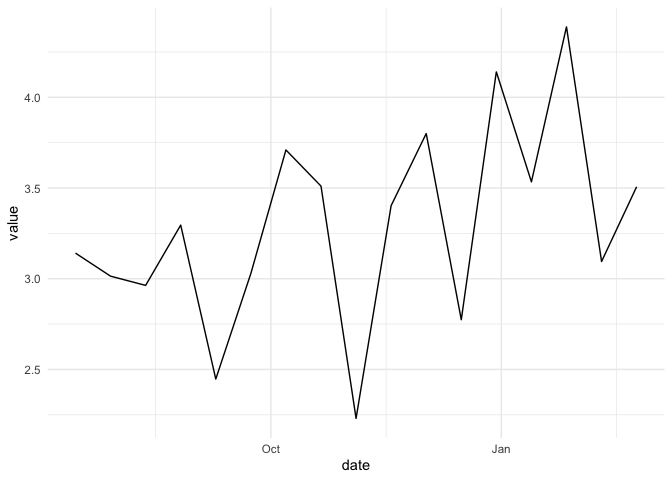
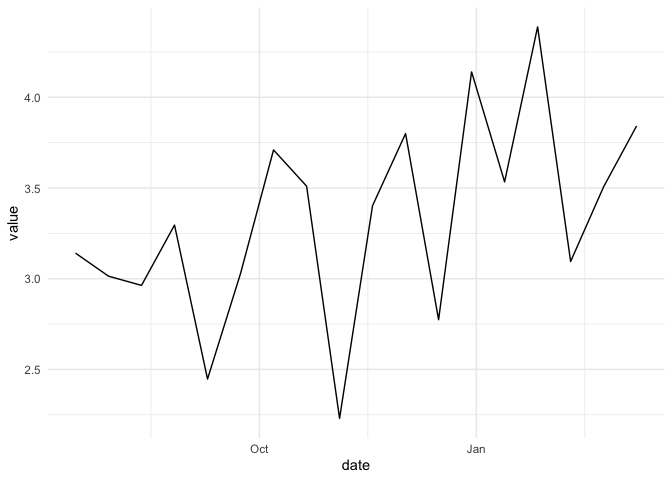
re-knit readme

diff --git a/README.md b/README.md
@@ -44,7 +44,7 @@ library(tidyverse)
 fwc <- read_fwc()
 
 fwc 
-#> # A tibble: 368 × 4
+#> # A tibble: 390 × 4
 #>    date       indicator               union  value
 #>    <date>     <chr>                   <chr>  <dbl>
 #>  1 2022-07-15 Employees covered (No.) Total  19132
@@ -57,7 +57,7 @@ fwc
 #>  8 2022-10-21 Employees covered (No.) Total  16294
 #>  9 2022-11-04 Employees covered (No.) Total 100074
 #> 10 2022-11-18 Employees covered (No.) Total  24113
-#> # … with 358 more rows
+#> # … with 380 more rows
 ```
 
 Visualise it!
@@ -84,7 +84,8 @@ fwc |>
   geom_smooth(method = "loess",
               formula = y ~ x,
               se = FALSE) +
-  scale_y_continuous(limits = \(x) c(0, x[2]))
+  scale_y_continuous(limits = \(x) c(0, x[2])) +
+  scale_x_date(breaks = \(x) seq(x[2], x[1], by = "-6 months"))
 ```
 
 <img src="man/figures/README-unnamed-chunk-3-1.png" width="100%" />
